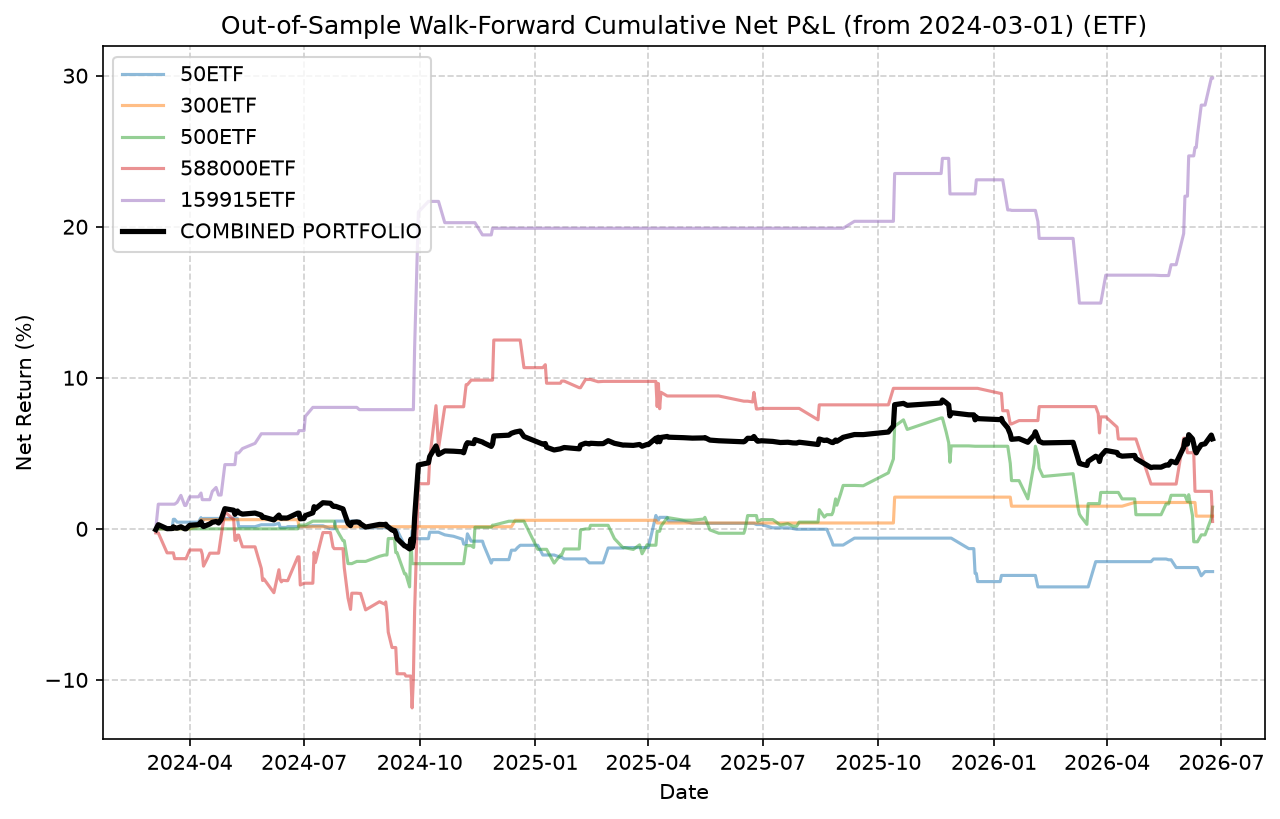
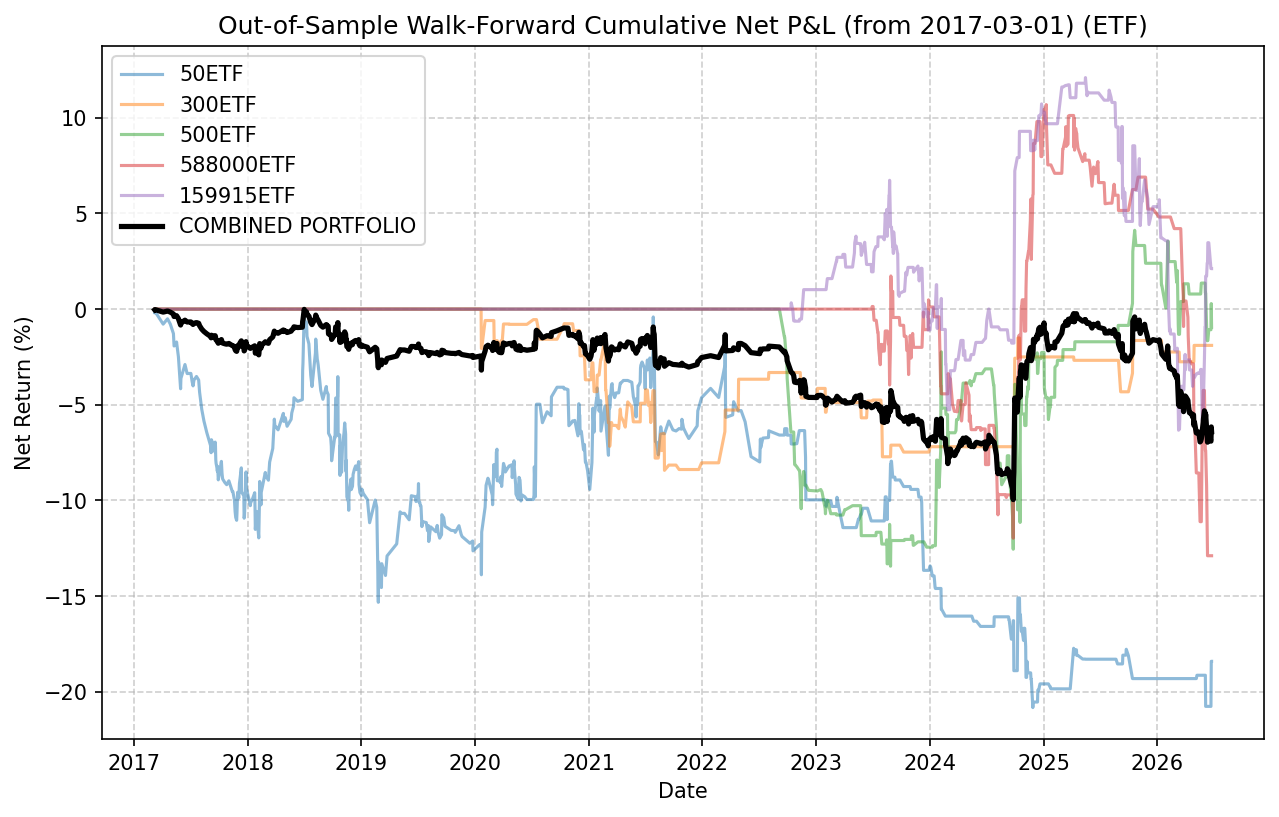
process

diff --git a/day-model/backtest_simulator.py b/day-model/backtest_simulator.py
@@ -140,8 +140,13 @@ def load_predictions(etf: str, target_transform: str = "gauss", early: bool = Fa
     return long_scores, short_scores
 
 
-def load_predictions_rolling(etf: str, max_age_months: int = 6, target_transform: str = "gauss", early: bool = False, sharpe_objective: bool = False) -> tuple[pd.Series, pd.Series]:
-    """Load rolling model predictions, auto-selecting the best model per date."""
+def load_predictions_rolling(etf: str, max_age_months: int = 6, target_transform: str = "gauss", early: bool = False, sharpe_objective: bool = False) -> tuple[pd.Series, pd.Series, pd.Timestamp | None]:
+    """Load rolling model predictions, auto-selecting the best model per date.
+    
+    Returns (long_scores, short_scores, earliest_rolling_lockbox).
+    earliest_rolling_lockbox is the lockbox date of the oldest rolling model found,
+    or None if no rolling models are available (static fallback).
+    """
     # Load features
     feat_path = FEATURES_DIR / (f"features_{etf}_early.parquet" if early else f"features_{etf}.parquet")
     if not feat_path.exists():
@@ -196,7 +201,8 @@ def load_predictions_rolling(etf: str, max_age_months: int = 6, target_transform
 
     if not rolling_models:
         print(f"  [WARNING] No rolling models found for {etf} (transform: {target_transform}), falling back to static.")
-        return load_predictions(etf, target_transform=target_transform, early=early, sharpe_objective=sharpe_objective)
+        long_s, short_s = load_predictions(etf, target_transform=target_transform, early=early, sharpe_objective=sharpe_objective)
+        return long_s, short_s, None
 
     # Sort by lockbox date descending (most recent first)
     rolling_models.sort(key=lambda m: m["lockbox"], reverse=True)
@@ -249,7 +255,9 @@ def load_predictions_rolling(etf: str, max_age_months: int = 6, target_transform
 
     long_scores = long_scores.sort_index()
     short_scores = short_scores.sort_index()
-    return long_scores, short_scores
+    # Earliest lockbox = the oldest rolling model (list is sorted descending)
+    earliest_lockbox = rolling_models[-1]["lockbox"]
+    return long_scores, short_scores, earliest_lockbox
 
 
 def get_option_price(
@@ -789,7 +797,10 @@ def main():
 
     print("=" * 80)
     print(f"DAY-MODEL WALK-FORWARD OOS SIMULATOR")
-    print(f"OOS Period : {LOCKBOX_DATE} onwards")
+    if args.rolling:
+        print(f"OOS Period : ROLLING (from earliest rolling model, typically 2017)")
+    else:
+        print(f"OOS Period : {LOCKBOX_DATE} onwards (static)")
     print(f"Asset Type : {args.type}")
     print(f"Models     : {'ROLLING (auto-select per date)' if args.rolling else 'STATIC'} (Early: {args.early})")
     print(f"Thresholds : Long={args.long_thr}%, Short={args.short_thr}%")
@@ -800,6 +811,7 @@ def main():
 
     all_trades = {}
     combined_df_list = []
+    oos_start_label = LOCKBOX_DATE  # updated per-ETF when rolling
 
     for etf in etfs:
         if args.type == "Future" and etf not in ["50ETF", "300ETF", "500ETF"]:
@@ -816,8 +828,9 @@ def main():
 
         try:
             # 1. Predictions
+            rolling_earliest_lockbox = None
             if args.rolling:
-                long_scores, short_scores = load_predictions_rolling(
+                long_scores, short_scores, rolling_earliest_lockbox = load_predictions_rolling(
                     etf, max_age_months=args.max_age_months, target_transform=args.target_transform, early=args.early, sharpe_objective=args.sharpe_objective
                 )
             else:
@@ -971,8 +984,13 @@ def main():
                 "size": size
             })
             
-            # Filter strictly for OOS period
-            signals_oos = signals[signals.index >= pd.Timestamp(LOCKBOX_DATE)]
+            # Filter for OOS period: rolling models use earliest lockbox, static uses LOCKBOX_DATE
+            if args.rolling and rolling_earliest_lockbox is not None:
+                oos_start = rolling_earliest_lockbox
+                oos_start_label = rolling_earliest_lockbox.strftime("%Y-%m-%d")
+            else:
+                oos_start = pd.Timestamp(LOCKBOX_DATE)
+            signals_oos = signals[signals.index >= oos_start]
             
             # 3. Simulate execution on ETF 5m or Future 5m, or Options
             if args.option:
@@ -1096,7 +1114,7 @@ def main():
         for col in merged.columns:
             plt.plot(np.cumsum(merged[col]) * 100, label=col.replace("_net", ""), alpha=0.5)
         plt.plot(np.cumsum(portfolio_rets) * 100, label="COMBINED PORTFOLIO", color="black", linewidth=2.5)
-        plt.title(f"Out-of-Sample Walk-Forward Cumulative Net P&L (from {LOCKBOX_DATE}) ({'Option' if is_option else args.type})")
+        plt.title(f"Out-of-Sample Walk-Forward Cumulative Net P&L (from {oos_start_label}) ({'Option' if is_option else args.type})")
         plt.xlabel("Date")
         plt.ylabel("Net Return (%)")
         plt.grid(True, linestyle="--", alpha=0.6)
